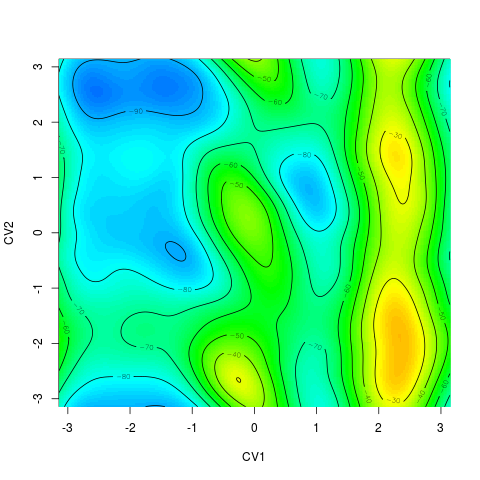
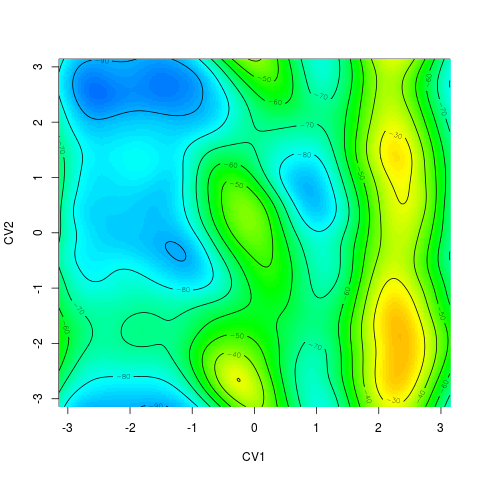
added min etc of fes2

diff --git a/README.md b/README.md
@@ -35,7 +35,7 @@ tfes<-fes2d(hillsf, tmax=1000)
 png("test%03d.png")
 plot(tfes, zlim=c(-120,0))
 for(i in 1:10) {
-  tfes<-tfes+fes2d(hillsf, tmin=1000*i, tmax=1000*(i+1))
+  tfes<-tfes+fes2d(hillsf, tmin=1000*i, tmax=1000*(i+1)-1)
   plot(tfes, zlim=c(-120,0))
 }
 dev.off()
